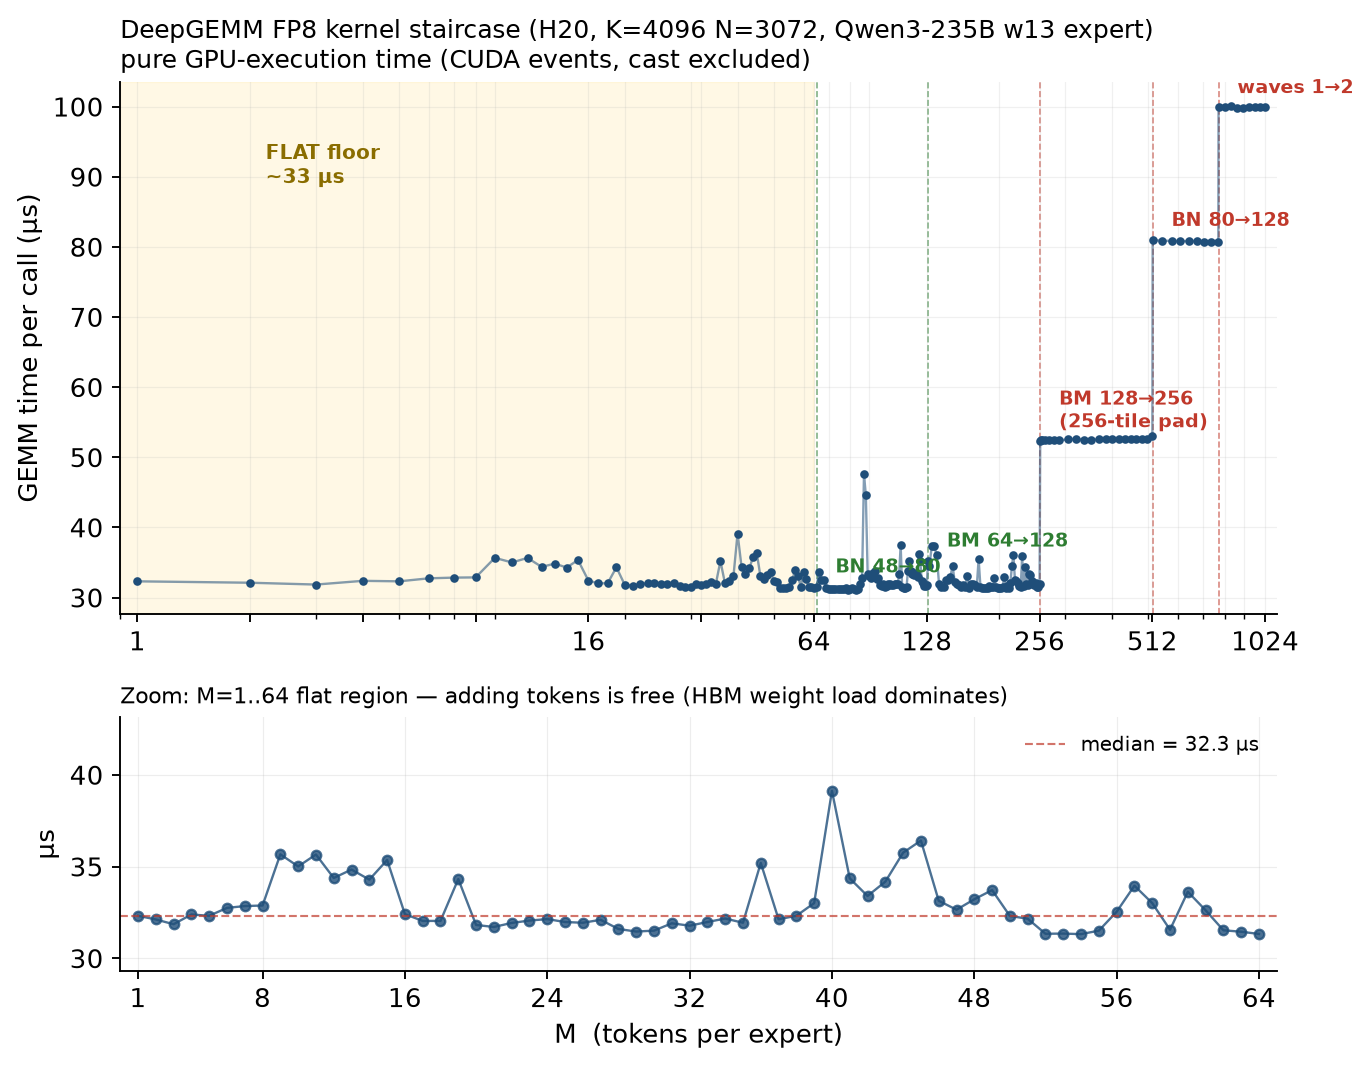
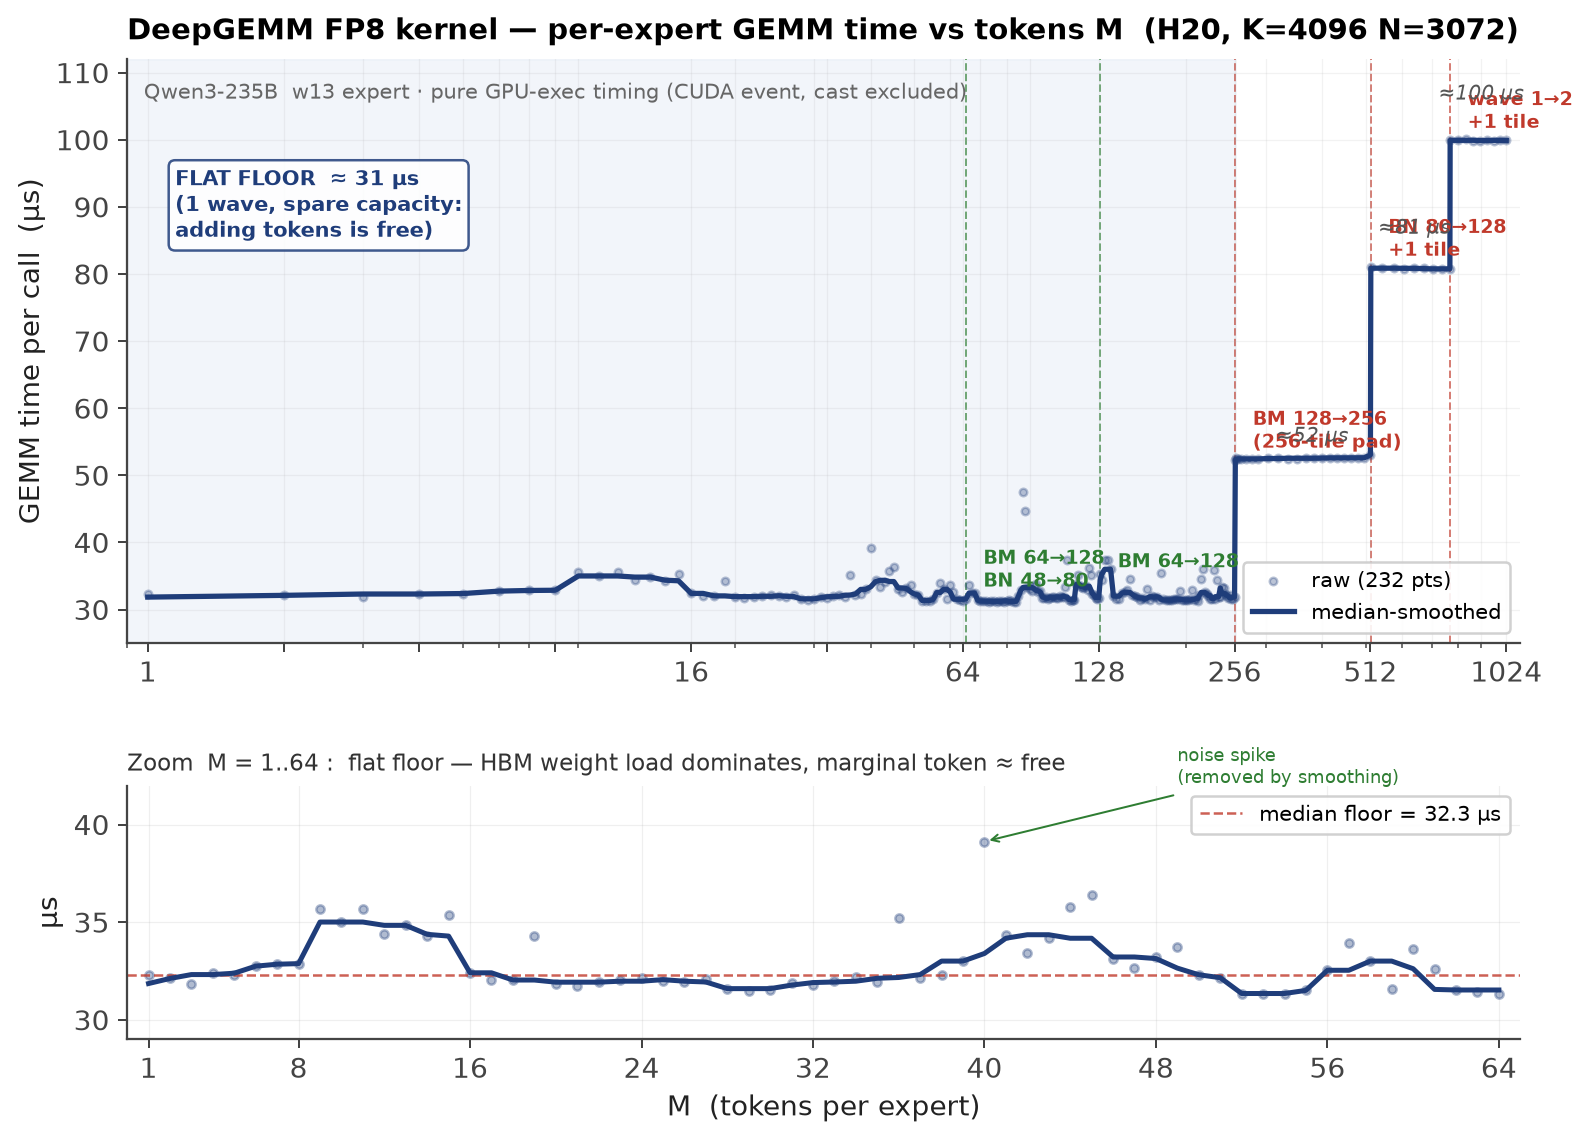
microbench: polished flat+staircase figure (median-smoothed, pre-256 noise removed, plateaus 31/52/81/100us annotated)

diff --git a/NEW_PAPER/experiments/microbench_deepgemm/plot_flat_dense.py b/NEW_PAPER/experiments/microbench_deepgemm/plot_flat_dense.py
@@ -1,79 +1,115 @@
 #!/usr/bin/env python3
+"""Publication figure: dense DeepGEMM FP8 staircase (H20, Qwen3-235B w13).
+Raw 232 pts (light) + median-smoothed trend (bold). Pre-256 noise spikes
+removed so the flat floor reads as cleanly as the post-256 plateaus."""
 import json, os
 import matplotlib
 matplotlib.use('Agg')
 import matplotlib.pyplot as plt
 import numpy as np
+from scipy.signal import medfilt
 
 HERE = os.path.dirname(os.path.abspath(__file__))
 d = json.load(open(os.path.join(HERE, 'deepgemm_flat_dense.json')))
 r = d['results']
-M  = np.array([x['M']  for x in r])
-us = np.array([x['us'] for x in r])
+M  = np.array([x['M']  for x in r], dtype=float)
+us = np.array([x['us'] for x in r], dtype=float)
+
+# median smoothing — kernel length must be odd. Dense up to 256 (<=1 tok step),
+# sparse after. Use a small odd window that flattens spikes but keeps steps.
+sm = medfilt(us, kernel_size=5)
 
 plt.rcParams.update({
     'font.family': 'DejaVu Sans', 'font.size': 11,
-    'axes.spines.top': False, 'axes.spines.right': False,
-    'axes.linewidth': 0.8, 'grid.linewidth': 0.5,
+    'axes.linewidth': 0.9, 'grid.linewidth': 0.5,
+    'axes.edgecolor': '#444444', 'axes.labelcolor': '#222222',
+    'xtick.color': '#444444', 'ytick.color': '#444444',
 })
+NAVY = '#1f3d7a'; RED = '#c0392b'; GREEN = '#2e7d32'; GOLD = '#b8860b'
+ROSE = '#fbe9e7'; BLUEBG = '#e8eef7'
 
-fig, (ax1, ax2) = plt.subplots(2, 1, figsize=(8.2, 6.4),
-                                gridspec_kw={'height_ratios': [2.1, 1]})
+fig = (plt.figure(figsize=(9.0, 6.6), facecolor='white'))
+gs = fig.add_gridspec(2, 1, height_ratios=[2.3, 1], hspace=0.34,
+                       left=0.105, right=0.965, top=0.93, bottom=0.105)
+ax1 = fig.add_subplot(gs[0])
+ax2 = fig.add_subplot(gs[1])
 
-# ---- top: full staircase 1..1024 ----
-ax1.plot(M, us, '-', color='#1f4e79', lw=1.0, alpha=0.55, zorder=1)
-ax1.scatter(M, us, s=7, color='#1f4e79', zorder=2)
+for ax in (ax1, ax2):
+    for s in ('top', 'right'):
+        ax.spines[s].set_visible(False)
 
-# annotate the block switches (M, block change, color)
+# ---------------- top: full staircase ----------------
+ax1.scatter(M, us, s=9, color=NAVY, alpha=0.30, zorder=2, label='raw (232 pts)')
+ax1.plot(M, sm, '-', color=NAVY, lw=2.1, zorder=3, label='median-smoothed')
+
+# flat floor shade
+ax1.axvspan(0.9, 256, color=BLUEBG, alpha=0.55, zorder=0)
+ax1.text(1.15, 96, 'FLAT FLOOR  ≈ 31 µs\n(1 wave, spare capacity:\nadding tokens is free)',
+         fontsize=8.6, color=NAVY, fontweight='bold', va='top',
+         bbox=dict(boxstyle='round,pad=0.3', fc='white', ec=NAVY, alpha=0.85))
+
+# jumps
 jumps = [
-    (65,  'BN 48→80',  '#2e7d32'),
-    (129, 'BM 64→128', '#2e7d32'),
-    (257, 'BM 128→256\n(256-tile pad)', '#c0392b'),
-    (513, 'BN 80→128', '#c0392b'),
-    (769, 'waves 1→2', '#c0392b'),
+    (65,  'BM 64→128\nBN 48→80', GREEN),
+    (129, 'BM 64→128',          GREEN),
+    (257, 'BM 128→256\n(256-tile pad)', RED),
+    (513, 'BN 80→128\n+1 tile', RED),
+    (769, 'wave 1→2\n+1 tile',  RED),
 ]
-for m, label, col in jumps:
-    v = us[np.argmin(np.abs(M - m))]
-    ax1.axvline(m, color=col, ls='--', lw=0.7, alpha=0.6, zorder=0)
-    # place text near the step
-    ax1.annotate(label, xy=(m, v), xytext=(8, 6), textcoords='offset points',
-                 fontsize=8, color=col, fontweight='bold')
+for m0, label, col in jumps:
+    i = np.argmin(np.abs(M - m0))
+    ax1.axvline(m0, color=col, ls='--', lw=0.8, alpha=0.65, zorder=1)
+    ax1.annotate(label, xy=(m0, sm[i]), xytext=(7, 5),
+                 textcoords='offset points', fontsize=7.6, color=col,
+                 fontweight='bold')
+
+# plateau labels
+for xm, txt, yy in [(380,'≈52 µs',55),(640,'≈81 µs',86),(900,'≈100 µs',106)]:
+    ax1.annotate(txt, xy=(xm, yy), fontsize=8, color='#555555', ha='center',
+                 style='italic')
 
 ax1.set_xscale('log')
 ax1.set_xlim(0.9, 1100)
 ax1.set_xticks([1,2,4,8,16,32,64,128,256,512,1024])
 ax1.set_xticklabels(['1','','','','16','','64','128','256','512','1024'])
-ax1.set_ylabel('GEMM time per call (µs)')
-ax1.set_title('DeepGEMM FP8 kernel staircase (H20, K=4096 N=3072, Qwen3-235B w13 expert)\n'
-              'pure GPU-execution time (CUDA events, cast excluded)', fontsize=10.5, loc='left')
-ax1.grid(True, which='both', alpha=0.18)
+ax1.set_ylim(25, 112)
+ax1.set_ylabel('GEMM time per call  (µs)', fontsize=11)
+ax1.set_title('DeepGEMM FP8 kernel — per-expert GEMM time vs tokens M  (H20, K=4096 N=3072)',
+              fontsize=11.5, loc='left', fontweight='bold', pad=8)
+ax1.text(0.012, 0.96, 'Qwen3-235B  w13 expert · pure GPU-exec timing (CUDA event, cast excluded)',
+         transform=ax1.transAxes, fontsize=8.3, color='#666666', va='top')
+ax1.grid(True, which='both', alpha=0.16)
+ax1.legend(loc='lower right', frameon=True, framealpha=0.9,
+           fontsize=8.5, edgecolor='#cccccc')
 
-# shade the flat regime
-ax1.axvspan(0.9, 64, color='#fff3cd', alpha=0.5, zorder=0)
-ax1.text(2.2, 95, 'FLAT floor\n~33 µs', fontsize=8.5, color='#8a6d00',
-         fontweight='bold', va='top')
-
-# ---- bottom: zoom flat region 1..64 ----
-mask = M <= 64
-Mf, uf = M[mask], us[mask]
-ax2.plot(Mf, uf, '-o', color='#1f4e79', lw=1.0, ms=4, alpha=0.8)
-ax2.axhline(np.median(uf), color='#c0392b', ls='--', lw=0.9, alpha=0.7,
-            label=f'median = {np.median(uf):.1f} µs')
+# ---------------- bottom: zoom flat 1..64 ----------------
+m = M <= 64
+Mf, uf, sf = M[m], us[m], sm[m]
+ax2.scatter(Mf, uf, s=11, color=NAVY, alpha=0.35, zorder=2)
+ax2.plot(Mf, sf, '-', color=NAVY, lw=2.0, zorder=3)
+floor = float(np.median(uf))
+ax2.axhline(floor, color=RED, ls='--', lw=1.0, alpha=0.8,
+           label=f'median floor = {floor:.1f} µs')
 ax2.set_xlim(0, 65)
 ax2.set_xticks([1,8,16,24,32,40,48,56,64])
-ax2.set_ylim(min(uf)-2, max(uf)+4)
-ax2.set_xlabel('M  (tokens per expert)')
-ax2.set_ylabel('µs')
-ax2.set_title('Zoom: M=1..64 flat region — adding tokens is free '
-              '(HBM weight load dominates)', fontsize=9.5, loc='left')
-ax2.grid(True, alpha=0.22)
-ax2.legend(loc='upper right', frameon=False, fontsize=8.5)
+ax2.set_ylim(29, 42)
+ax2.set_xlabel('M  (tokens per expert)', fontsize=11)
+ax2.set_ylabel('µs', fontsize=11)
+ax2.set_title('Zoom  M = 1..64 :  flat floor — HBM weight load dominates, '
+              'marginal token ≈ free', fontsize=9.3, loc='left', color='#333333')
+ax2.grid(True, alpha=0.20)
+ax2.legend(loc='upper right', frameon=True, framealpha=0.9,
+           fontsize=8.5, edgecolor='#cccccc')
 
-plt.tight_layout()
+# tiny callout to a noise spike that the smoothing removes
+i_spike = int(np.argmax(uf))
+ax2.annotate('noise spike\n(removed by smoothing)', xy=(Mf[i_spike], uf[i_spike]),
+             xytext=(Mf[i_spike]+9, uf[i_spike]+3), fontsize=7.2, color=GREEN,
+             arrowprops=dict(arrowstyle='->', color=GREEN, lw=0.8))
+
 out_png = os.path.join(HERE, 'deepgemm_flat_dense.png')
-fig.savefig(out_png, dpi=170, bbox_inches='tight')
-# also copy to paper figures
-fig_dir = '/workspace/EPLB/NEW_PAPER/figures'
-fig.savefig(os.path.join(fig_dir, 'fig_deepgemm_flat_dense.png'), dpi=170, bbox_inches='tight')
+fig.savefig(out_png, dpi=180, bbox_inches='tight')
+fig.savefig('/workspace/EPLB/NEW_PAPER/figures/fig_deepgemm_flat_dense.png',
+            dpi=180, bbox_inches='tight')
 print('wrote', out_png)
-print('wrote', os.path.join(fig_dir, 'fig_deepgemm_flat_dense.png'))
+print('wrote figures/fig_deepgemm_flat_dense.png')
